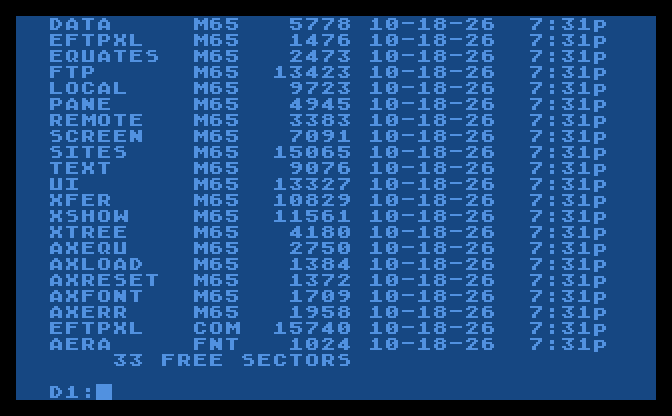
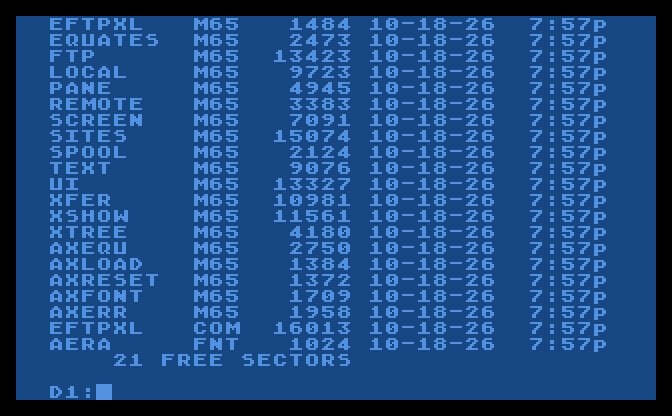
EFTP_XL 1.5
The program loads at $1E00, over EDOS (the load check refuses a
MEMLO above it), and ends at $770C. Files go to and from the disk
through all the memory above it, up to the font or MEMTOP: 8K with
BASIC on, 16K off, one PUT or GET for all it holds. A site saved is
not read back: SMEM (new SPOOL.M65) changes SPOOL as SSAVE wrote it.

make test: 121 checks. atari800: it starts with BASIC on and off;
MAC/65 1.01 assembles it from the disk with 0 errors, 13246 bytes
free, the same bytes; 21 free sectors on the disk. The pictures
taken again.

Claude-Session: https://claude.ai/code/session_015rm8FDp2Qo9bH2n9Kaev3B

diff --git a/tools/test_sim.py b/tools/test_sim.py
@@ -179,10 +179,18 @@ def main():
               shots[0][:300])
 
         # disk access (the 8-bit guidelines, 5.5): a file is opened
-        # once and goes to and from the disk through XBUF, MEMLO up to
-        # the program, in one PUT or GET for all it holds; below MEMLO
-        # nothing changes; with under 512 bytes there, BUF's second
-        # page; after a transfer only the other side is read again
+        # once and goes to and from the disk through XBUF, all the
+        # memory above the program up to the font or MEMTOP, in one PUT
+        # or GET for all it holds: 16K with BASIC off, 8K on (RAMTOP
+        # $A0); nothing below MEMLO and not the font changed; with
+        # under 512 bytes (MEMTOP low), BUF's second page; after a
+        # transfer only the other side is read again
+        syms = {}
+        for line in open(os.path.join(sim.ROOT, 'bin', 'EFTPXL.SYM')):
+            f = line.split()
+            if len(f) == 2 and f[1].startswith('$'):
+                syms[f[0]] = int(f[1][1:], 16)
+        top = syms['AXFMIN'] * 256          # XBUF's start
         aroot, ad1 = os.path.join(tmp, 'asrv'), os.path.join(tmp, 'ad1')
         os.makedirs(aroot)
         os.makedirs(ad1)
@@ -192,13 +200,18 @@ def main():
         open(os.path.join(aroot, 'big.bin'), 'wb').write(bin20)
         open(os.path.join(aroot, 'text.txt'), 'wb').write(txt20)
         open(os.path.join(ad1, 'UP.BIN'), 'wb').write(bin20)
+        FONT = open(os.path.join(sim.ROOT, 'xl', 'font', 'AERA.FNT'), 'rb').read()
+        open(os.path.join(ad1, 'AERA.FNT'), 'wb').write(FONT)
         open(os.path.join(ad1, 'UP.TXT'), 'wb').write(txt20.replace(b'\n', b'\x9b'))
         aserver = Server(aroot)
 
-        def logged(keys, memlo=0x1D00):
+        def logged(keys, ramtop=0xC0, memtop=0xBC1F):
             """run, with every D: OPEN, GET and PUT in a list"""
+            memlo = 0x1D00
             s = sim.Sim(XEX, sim.parse_keys(keys), memlo, sim.FujiNet(),
                         sim.Disks({1: ad1}))
+            s.mem[sim.RAMTOP] = ramtop
+            s.mem[0x2E5], s.mem[0x2E6] = memtop & 255, memtop >> 8
             dev, ev, names = s.m.cio.devices['D'], [], {}
             o_open, o_get, o_put = dev.open, dev.get, dev.put
 
@@ -223,7 +236,9 @@ def main():
             s.snapshot = lambda: shots.append(s.screen_text())
             s.run()
             shots.append(s.screen_text())
-            return shots, ev, bytes(s.mem[memlo - 256:memlo]) == low
+            font = ((ramtop - 8) & 0xFC) * 256
+            return shots, ev, bytes(s.mem[memlo - 256:memlo]) == low and \
+                bytes(s.mem[font:font + 1024]) == FONT
 
         def calls(ev, kind, name):
             return [n for k, f, n in ev if k == kind and f == 'D1:' + name]
@@ -232,38 +247,52 @@ def main():
             run_site = f'^K^NTest\\n127.0.0.1\\n{aserver.port}\\n{USER}\\n{PASSWORD}' \
                        '\\n/\\n\\n  \\n\\n\\n\\w\\s^Q'
             logged(run_site)
-            for memlo, way in ((0x1D00, ''), (0x3F80, ', in BUF')):
+            for ramtop, memtop, most, way in ((0xC0, 0xBC1F, 2, ''),
+                                              (0xA0, 0x9C1F, 3, ', BASIC on'),
+                                              (0xC0, top + 0xFF, 0, ', in BUF')):
                 for key, name, want in (('B', 'BIG.BIN', bin20),
                                         ('T', 'TEXT.TXT', txt20.replace(b'\n', b'\x9b'))):
                     p = os.path.join(ad1, name)
                     os.remove(p) if os.path.exists(p) else None
-                    shots, ev, low = logged(f'^K\\n\\w{key}\\n\\w\\s^Q', memlo)
+                    shots, ev, low = logged(f'^K\\n\\w{key}\\n\\w\\s^Q', ramtop, memtop)
                     got = open(p, 'rb').read() if os.path.exists(p) else b''
                     puts = calls(ev, 'PUT', name)
                     check(f'5.5: 20K {name} down{way}', got == want, f'{len(got)} bytes')
-                    check(f'5.5: {name} down: 1 OPEN, '
-                          + ('3 PUTs' if not way else 'BUF\'s 256 a PUT'),
+                    check(f'5.5: {name} down{way}: 1 OPEN, '
+                          + (f'{most} PUTs' if most else 'BUF\'s 256 a PUT'),
                           len(calls(ev, 'OPEN', name)) == 1
-                          and (len(puts) <= 3 if not way else max(puts) <= 256),
+                          and (len(puts) <= most if most else max(puts) <= 256),
                           f'{len(calls(ev, "OPEN", name))} OPEN, PUTs {puts}')
-                    check(f'5.5: nothing below MEMLO changed{way}', low)
+                    check(f'5.5: nothing below MEMLO, nor the font, changed{way}', low)
                 for key, name, want in (('U', 'UP.BIN', bin20),
                                         ('UU', 'UP.TXT', txt20.replace(b'\n', b'\r\n'))):
                     p = os.path.join(aroot, name)
                     os.remove(p) if os.path.exists(p) else None
-                    shots, ev, low = logged(f'^K\\n\\w\\t{key}\\n\\w\\s^Q', memlo)
+                    shots, ev, low = logged(f'^K\\n\\w\\t{key}\\n\\w\\s^Q', ramtop, memtop)
                     got = open(p, 'rb').read() if os.path.exists(p) else b''
                     # (a8sim says 136 on a GET after the end; the
                     # real CIO says it with the last bytes)
                     gets = [n for n in calls(ev, 'GET', name) if n]
                     check(f'5.5: 20K {name} up{way}', got == want, f'{len(got)} bytes')
-                    check(f'5.5: {name} up: 1 OPEN, '
-                          + ('3 GETs' if not way else 'BUF\'s 256 a GET'),
+                    check(f'5.5: {name} up{way}: 1 OPEN, '
+                          + (f'{most} GETs' if most else 'BUF\'s 256 a GET'),
                           len(calls(ev, 'OPEN', name)) == 1
-                          and (len(gets) <= 3 if not way else max(gets) <= 256),
+                          and (len(gets) <= most if most else max(gets) <= 256),
                           f'{len(calls(ev, "OPEN", name))} OPEN, GETs {gets}')
                     check(f'5.5: the Atari not read again after {name} up{way}',
                           len(calls(ev, 'OPEN', '*.*')) == 1, str(calls(ev, 'OPEN', '*.*')))
+
+            # a site saved: the file written once, not read back, and
+            # the Sites screen as the file is
+            cfgp = os.path.join(ad1, 'EFTPXL.CFG')
+            keep = open(cfgp, 'rb').read()
+            shots, ev, low = logged('^K^E\\b\\b\\b\\bBest' + '\\n' * 9 + '\\s\\e^Q')
+            cfg_opens = [f for k, f, n in ev if k == 'OPEN' and f.upper().endswith('EFTPXL.CFG')]
+            check('5.5: a site saved: 1 OPEN to write, none to read back',
+                  len(cfg_opens) == 2 and b'Best|127.0.0.1|' in open(cfgp, 'rb').read()
+                  and 'Best' in shots[0] and 'Test' not in shots[0],
+                  f'{cfg_opens} {shots[0][:200]}')
+            open(cfgp, 'wb').write(keep)
 
             # the replace question: A replaces this one and all after it
             for name in ('BIG.BIN', 'TEXT.TXT'):
@@ -305,11 +334,11 @@ def main():
         check('About in HELP', 'EFTP_XL ' in t and 'Erez Yaary' in t
               and 'GPL-2.0-or-later' in t and 'github.com/whomper/EFTP_XL' in t, t)
 
-        # the load check (xl's AXLOAD): MEMLO above $4000, nothing loaded
-        s = sim.Sim(XEX, [], 0x4100, sim.FujiNet(), sim.Disks({1: d1}))
+        # the load check (xl's AXLOAD): MEMLO above $1E00, nothing loaded
+        s = sim.Sim(XEX, [], 0x1E01, sim.FujiNet(), sim.Disks({1: d1}))
         s.run()
         check('load check: DOS too big', s.to_dos and b'MEMLO is above it' in s.eout
-              and s.mem[0x4000] == 0, repr(bytes(s.eout)[:80]))
+              and s.mem[0x1E00] == 0, repr(bytes(s.eout)[:80]))
 
         # EFTPXL.CFG: SSAVE writes the note first; lines that start with
         # ; are skipped when read; 1.2's file (no note) still reads

diff --git a/tools/sim.py b/tools/sim.py
@@ -52,7 +52,7 @@ def Disks(drives, dos='sparta'):
 class Sim:
     """EFTPXL.COM in a8sim, with the key script, D:, E: and the FujiNet"""
 
-    def __init__(self, xex, keys, memlo=0x1F00, fujinet=None, disks=None, shots=None):
+    def __init__(self, xex, keys, memlo=0x1D00, fujinet=None, disks=None, shots=None):
         self.m = a8sim.Machine(memlo=memlo, clock='wall')
         self.keys = a8sim.Keys(keys, on_shot=lambda m: self.snapshot())
         self.fujinet = fujinet or FujiNet()
@@ -102,7 +102,7 @@ def main():
     ap = argparse.ArgumentParser(description=__doc__.split('\n')[0])
     ap.add_argument('keys', help='keys to type (see above)')
     ap.add_argument('--com', '--xex', dest='xex', default=os.path.join(ROOT, 'bin', 'EFTPXL.COM'))
-    ap.add_argument('--memlo', type=lambda v: int(v, 0), default=0x1F00)
+    ap.add_argument('--memlo', type=lambda v: int(v, 0), default=0x1D00)
     ap.add_argument('--d1', help='folder for D1:')
     ap.add_argument('--d2', help='folder for D2:')
     ap.add_argument('--dos', choices=('sparta', 'dos2'), default='sparta')

diff --git a/README.md b/README.md
@@ -30,7 +30,8 @@ transfers below.
 - Sites, saved on the disk
 - RESET comes back to the main screen (disconnected), never to DOS
 - Works with DOS 2.5 and SpartaDOS 3.x; all file access goes through
-  CIO, so any CIO-compatible DOS should work
+  CIO, so any CIO-compatible DOS with its MEMLO at `$1E00` or below
+  should work
 
 The pictures are of the real program, run by `tools/sim.py` (see
 [Tests](#tests)); `tools/screenshots.py` takes them again. The first
@@ -154,16 +155,18 @@ Notes:
 - On an error the info line says what went wrong: the server's own
   reply (`530 Login incorrect`), or the Atari's own error with its text
   (`NOTES.TXT: Disk full`).
-- The program takes `$4000`-`$97F5` (the program and its variables),
-  and the font the 1K just below the screen (`$9800` with BASIC on):
-  above EDOS and the MEMLO of DOS 2.5 and SpartaDOS 3, so BASIC can
-  stay on. If a DOS's MEMLO is above `$4000`, or there isn't room for
-  both, the program says so and goes back to DOS before loading itself.
-- A file goes to and from the disk through the memory from MEMLO up to
-  `$4000` (8.75K with DOS 2.5), read when a transfer starts, so the
-  DOS and its handlers below MEMLO stay whole: one PUT or GET for all
-  it holds (a 20K file is 3), and each file opened once. With under
-  512 bytes there, it uses 256 at a time of its own.
+- The program takes `$1E00`-`$770C` (the program and its variables),
+  over EDOS and above the MEMLO of DOS 2.5 (`$1CFC`) and SpartaDOS 3.2
+  (`$17A2`), and the font the 1K just below the screen (`$9800` with
+  BASIC on, `$B800` with it off), so BASIC can stay on. If a DOS's
+  MEMLO is above `$1E00` (DOS 2.5 with the 850's R: handler, for one),
+  or there isn't room, the program says so and goes back to DOS before
+  loading itself.
+- A file goes to and from the disk through all the memory between the
+  program and the font, `$7800` up: 8K with BASIC on, 16K with it off,
+  one PUT or GET for all it holds (a 20K file is 3 with BASIC on, 2
+  off), and each file is opened once. A site saved writes
+  `EFTPXL.CFG` and nothing reads it back.
 - `EFTPXL.CFG` starts with a note on what it is; lines that start with
   `;` are notes, and EFTP_XL skips them. A line that starts with `@` is
   the Pi gateway (`@192.168.1.5:2121`). It holds up to 8 sites, as long
@@ -223,7 +226,7 @@ eftpgate's `--allow-local`.
 ## Building
 
 The program is 6502 assembly in Mac/65's form, in [ASM](ASM):
-`EFTPXL.M65` is the main file and includes the others. It is 15.4K (the
+`EFTPXL.M65` is the main file and includes the others. It is 15.6K (the
 font is `AERA.FNT`, read when it is there); the first version, in C with
 cc65, was 27K (it is in the git history, up to v0.2).
 
@@ -340,7 +343,7 @@ every FTP command sent.
 **The checks.** `make test` runs xl's own tests, then
 `tools/test_sim.py`: the program that way against an FTP server it
 starts, looking at the screen, at memory and at the files on both
-sides, 108 checks:
+sides, 121 checks:
 
 | | |
 |---|---|
@@ -354,8 +357,8 @@ sides, 108 checks:
 | HELP, the font | the About lines; `AERA.FNT` read below the screen and its icons used, set again after RESET without reading it again, DOS's font back on quit; without it the ROM font and its icons; no font in the program |
 | ESC and BREAK | each cancels as "no": new folder, rename, delete, HELP, the Sites screen, a site's edit, delete and new, the replace question, the password question; each stops a transfer |
 | The test disk | `EFTPTEST.ATR` clean, with the files the test plan needs |
-| Disk access | 20K down and up, binary and text: the file opened once, 3 PUTs or GETs through the memory from MEMLO, none below it changed; with MEMLO at $3F80, 256 bytes at a time; after an upload the Atari not read again |
-| Loading | the load check refuses a DOS whose MEMLO is above $4000, says so and goes back to DOS |
+| Disk access | 20K down and up, binary and text: the file opened once, 2 PUTs or GETs with BASIC off and 3 on, through the memory above the program; nothing below MEMLO and not the font changed; with MEMTOP just above the program, 256 bytes at a time; after an upload the Atari not read again; a site saved not read back |
+| Loading | the load check refuses a DOS whose MEMLO is above $1E00, says so and goes back to DOS |
 | SFTP, FTPS | through AERA-Gateway's eftpgate (its latest release, fetched by `make test`) to the SFTP and FTPS servers of its own tests: ^G's gateway and the site saved, no gateway said, the list, text down and up with the server's line ends, binary both ways |
 
 CI (`.github/workflows/ci.yml`) builds the program and the disk
